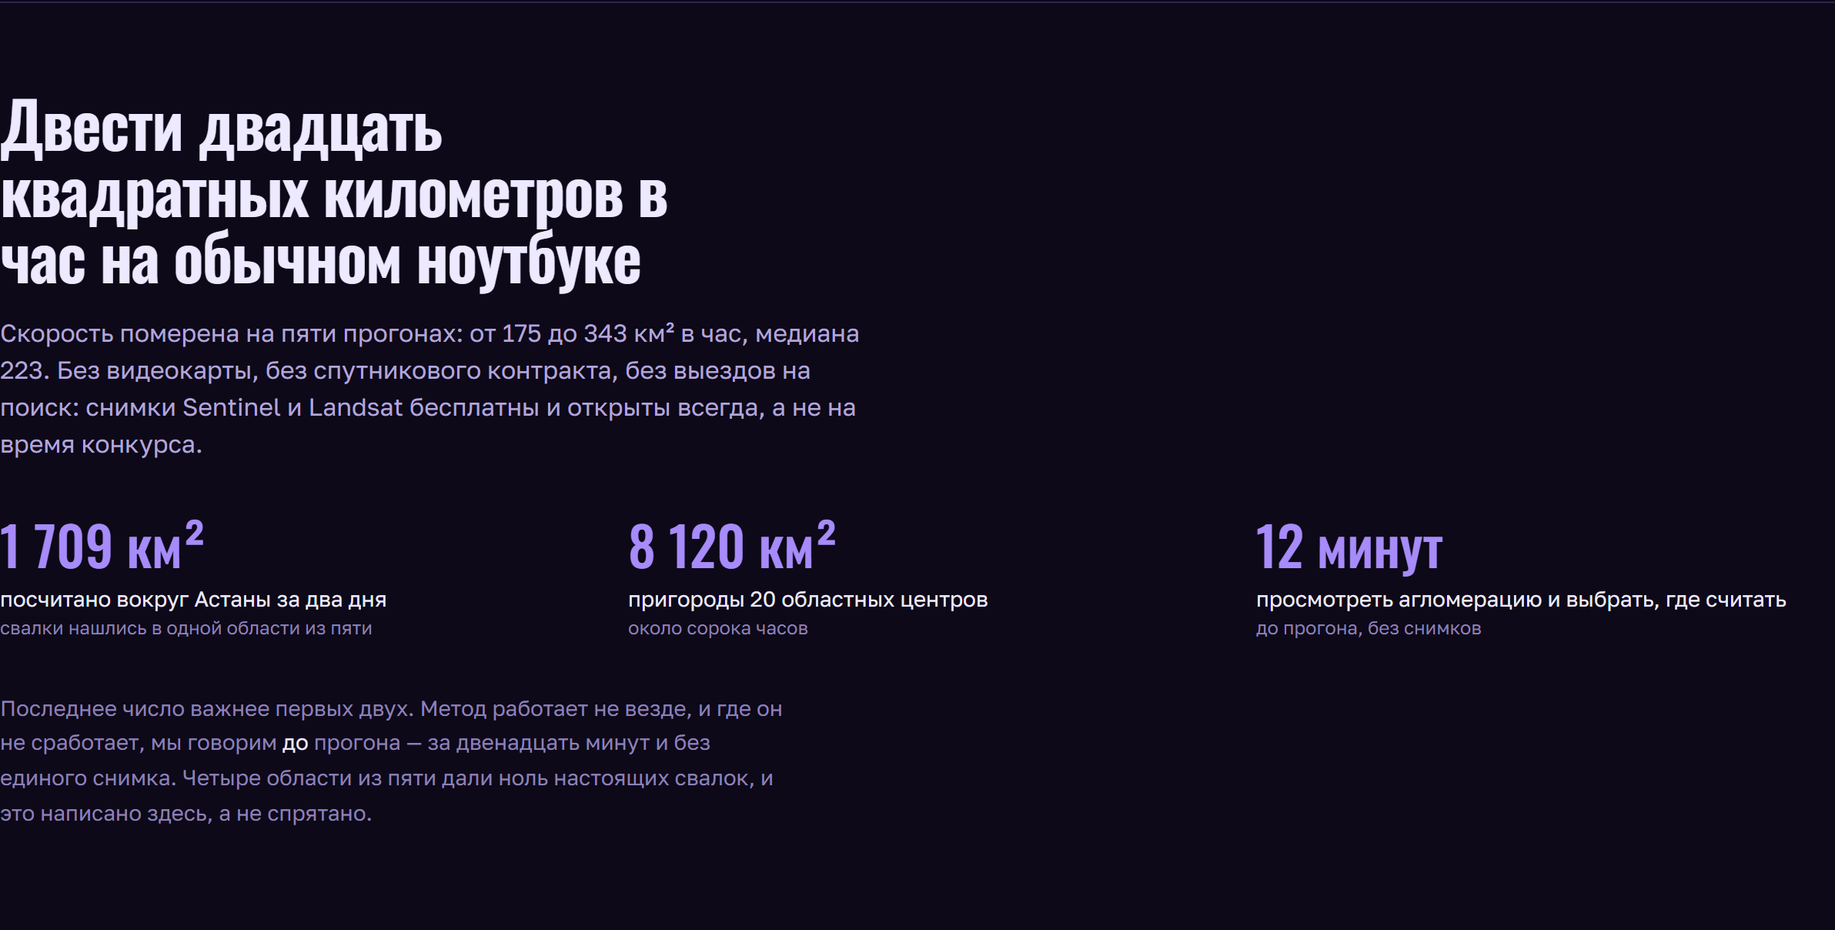
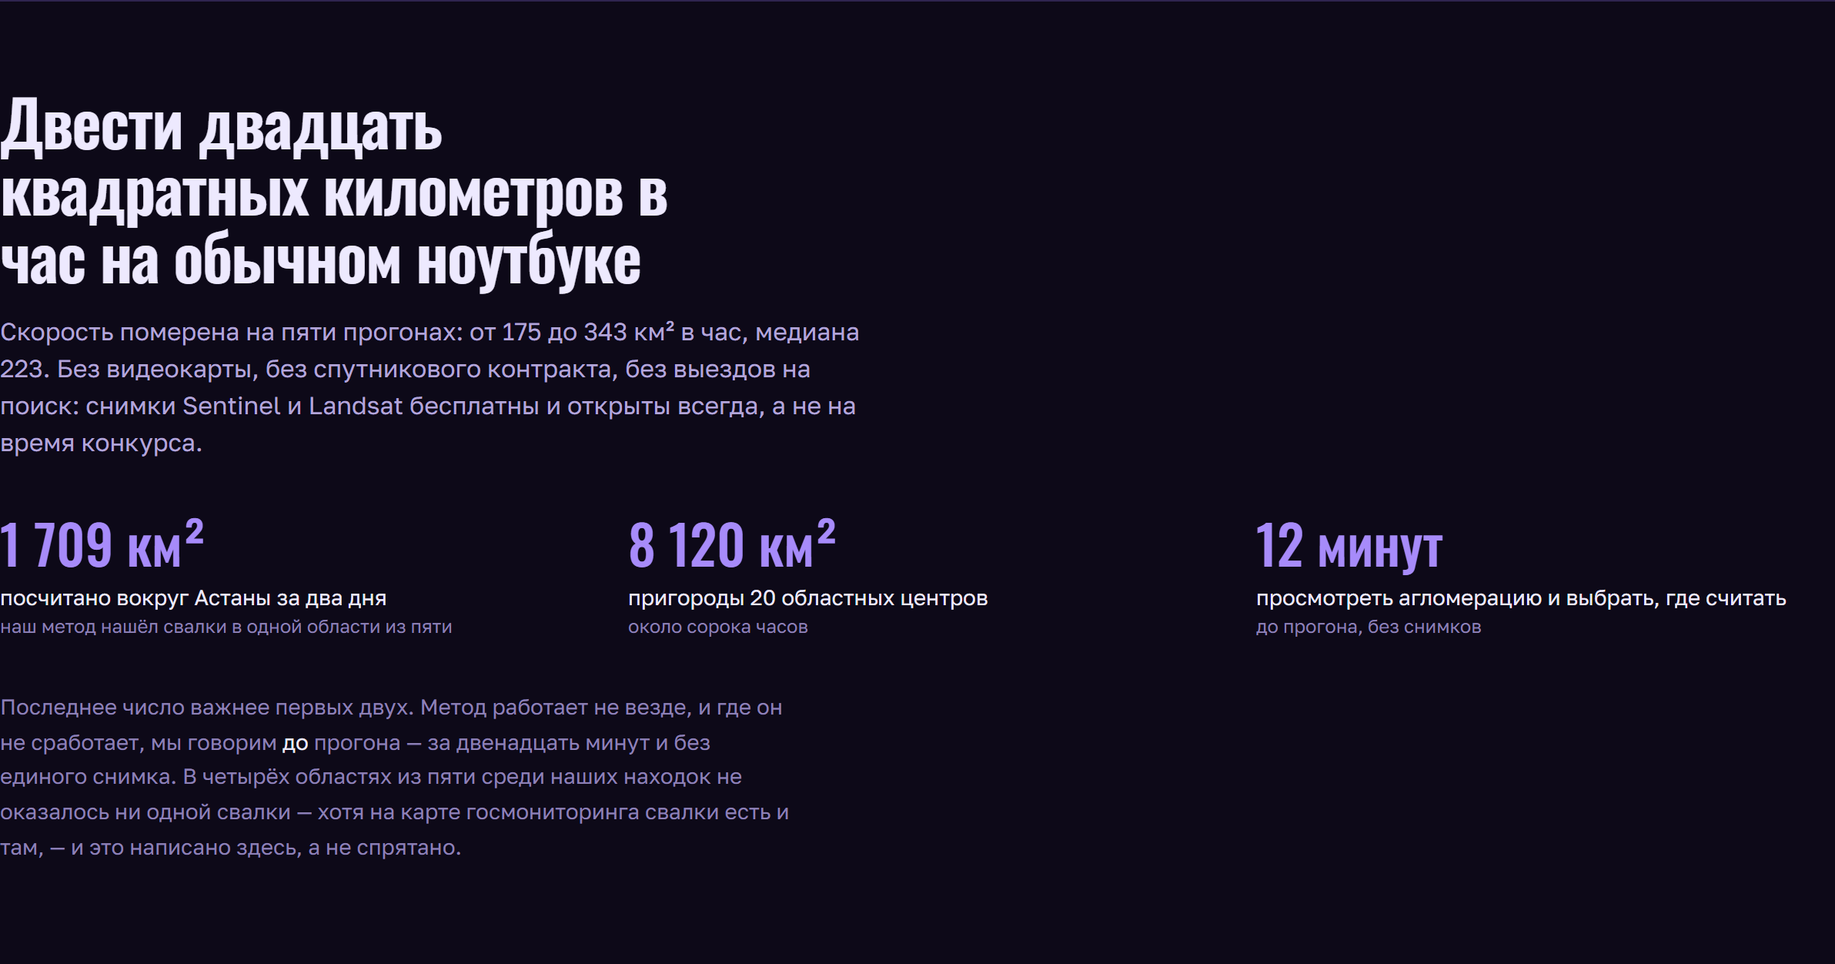
Убраны утверждения, которые опровергает открытая карта госмониторинга
- «В четырёх поясах свалок ноль» → «среди находок метода ни одной
  свалки»: на карте госмониторинга в этих поясах 131 свалка. Сайт, питч,
  PILOT, QA E3, BELTS (поправка), страница чисел (из данных сверки).
- «Ни одного объекта нет в реестре» → «из семи свалок на карте
  госмониторинга одна»: C00318 там есть. Питч, дека, речь.
- Карточка ограничений на сайте: «Находит не каждую свалку» с числами.
- Картинки деки пересняты с текущей сборки.

diff --git a/web-next/src/App.tsx b/web-next/src/App.tsx
@@ -136,8 +136,8 @@ const LIMITS: [string, string][] = [
     'Объекты меньше 30–50 м² Sentinel-2 не разрешает. Эту дыру закрывает житель с телефоном, а не алгоритм.',
   ],
   [
-    'В сельской местности метод не работает',
-    'В промзоне необратимое исчезновение растительности — событие редкое и потому значимое; в поле — рядовое: залежь, смена оборота, заброшенный огород. Проверено на четырёх сельских областях: настоящих свалок ноль.',
+    'Находит не каждую свалку',
+    'Метод видит место, где растительность исчезла навсегда. На открытой карте госмониторинга в наших пяти поясах 183 свалки — поиск по архиву находит из них 18, а в четырёх поясах среди его находок не оказалось ни одной свалки, хотя свалки там есть. В поле он к тому же даёт ложные находки: залежь и смена оборота выглядят так же. Второй способ — сканирование снимка высокого разрешения — в работе.',
   ],
   [
     'Перенос классификатора измерен, но выборка мала',
@@ -820,7 +820,7 @@ export default function App() {
                 пересчитывается тем же способом, что в scripts/finish_all.py. */}
             {[
               ['1 709 км²', 'посчитано вокруг Астаны за два дня',
-               'свалки нашлись в одной области из пяти'],
+               'наш метод нашёл свалки в одной области из пяти'],
               ['8 120 км²', 'пригороды 20 областных центров', 'около сорока часов'],
               ['12 минут', 'просмотреть агломерацию и выбрать, где считать', 'до прогона, без снимков'],
             ].map(([big, what, cost]) => (
@@ -837,8 +837,10 @@ export default function App() {
           <p className="mt-8 max-w-[60ch] text-sm leading-relaxed text-muted-2">
             Последнее число важнее первых двух. Метод работает не везде, и
             где он не сработает, мы говорим <strong className="font-normal text-line">до</strong> прогона —
-            за двенадцать минут и без единого снимка. Четыре области из пяти
-            дали ноль настоящих свалок, и это написано здесь, а не спрятано.
+            за двенадцать минут и без единого снимка. В четырёх областях из
+            пяти среди наших находок не оказалось ни одной свалки — хотя на
+            карте госмониторинга свалки есть и там, — и это написано здесь, а
+            не спрятано.
           </p>
         </section>
 

diff --git a/web-next/src/components/CitySwitch.tsx b/web-next/src/components/CitySwitch.tsx
@@ -65,7 +65,7 @@ export function CitySwitch({ cities, current, onSelect, className = '' }: Props)
           state === 'found'
             ? `${city.name}: найдено ${city.count}`
             : state === 'empty'
-              ? `${city.name}: проверено ${city.reviewed} находок, настоящих свалок нет`
+              ? `${city.name}: проверено ${city.reviewed} находок, свалок среди них нет`
               : `${city.name}: прогон ещё не проходил`;
         return (
           <button

diff --git a/scripts/key_numbers.py b/scripts/key_numbers.py
@@ -96,6 +96,11 @@ def main() -> int:
     # разметки оно разошлось с данными.
     screen_path = DATA / "screen.json"
     screen = json.loads(screen_path.read_text(encoding="utf-8")) if screen_path.exists() else {}
+    # Сверка с госмониторингом — из scripts/gov_waste.py (data/eval/gov_waste.json).
+    gov_path = Path("data/eval/gov_waste.json")
+    gov = json.loads(gov_path.read_text(encoding="utf-8")) if gov_path.exists() else {}
+    gov_total, gov_found = gov.get("total", 0), gov.get("found", 0)
+    gov_elsewhere = sum(1 for r in gov.get("rows", []) if r.get("area") != "outputs_real")
     # Точность модели по снимку — из scripts/attach_chipmodel.py.
     image_path = DATA / "image_model.json"
     image = json.loads(image_path.read_text(encoding="utf-8")) if image_path.exists() else {}
@@ -339,8 +344,11 @@ def main() -> int:
             "  «фотофиксация». Разница небольшая, но проверяющий, который",
             "  заметит её сам, отнесётся ко всему остальному иначе.",
         ] if ground and not photos else []),
-        "- **Четыре области из пяти дали ноль настоящих свалок.** Это не",
-        "  провал, а измеренная граница применимости — [BELTS.md](BELTS.md).",
+        "- **В четырёх областях из пяти среди находок метода нет ни одной свалки.**",
+        f"  Свалки там есть: на открытой карте госмониторинга их {gov_elsewhere}.",
+        f"  Метод находит {gov_found} из {gov_total} свалок госмониторинга —",
+        "  видит исчезновение растительности, а не каждую свалку. Не говорить",
+        "  «там свалок нет» (AI_RESULTS.md, 1ф; [BELTS.md](BELTS.md)).",
         "- **Три попытки обучить свою модель, все три неудачные.** Числа в",
         "  [AI_RESULTS.md](AI_RESULTS.md), разделы 1в, 1г, 1з.",
         "- **Прямого тарифа вывоза по Астане нет.** Именно он двигает оценку",

diff --git a/scripts/make_speech_pdf.py b/scripts/make_speech_pdf.py
@@ -38,7 +38,7 @@ RULE = (0.867, 0.835, 0.784)
 
 SKELETON = [
     "За свалку платят трижды, и ни один счёт никто не считает.",
-    "Свалок нет в реестре, потому что их никто не видел.",
+    "Шести из семи наших свалок нет даже на карте госмониторинга.",
     "Вот что известно публично — а вот что есть на самом деле.",
     "Различает их не картинка, а физика. Пять признаков.",
     "Дальше деньги: не одна цифра, а диапазон.",
@@ -63,7 +63,8 @@ BLOCKS = [
         [
             "Стихийная свалка — это счёт, который приходит трижды: вывозом, "
             "потерянным вторсырьём и метаном в воздухе.",
-            "Вокруг Астаны такие объекты есть, и их нет ни в одном реестре. "
+            "Вокруг Астаны такие объекты есть: из семи наших свалок на открытой "
+            "карте госмониторинга только одна. "
             "Их не считают, потому что не видят: обойти степь пешком "
             "невозможно, а находят по жалобе — когда убирать уже дорого.",
         ],

diff --git a/scripts/build_deck.py b/scripts/build_deck.py
@@ -347,7 +347,7 @@ def slides(n: dict) -> str:
           <ul>
             <li><b>Первый счёт — вывоз.</b> {ru(n['mass_sum'])} тонн на {n['dumps']}
               опознанных свалках одного квадрата 20 × 20 км — это <b>{ru(n['removal'], 1)} млн ₸</b> бюджету, и в план
-              уборки они не заложены: объектов нет в реестрах.</li>
+              уборки они не заложены: шести из семи нет даже на открытой карте госмониторинга.</li>
             <li><b>Второй счёт — потерянный ресурс.</b> Внутри тех же тонн лежит
               пластика, бумаги, металла и стекла на <b>{ru(n['recyclable'], 1)} млн ₸</b>
               по прайсу приёмки. Вывоз на полигон списывает их в ноль.</li>

diff --git a/docs/PITCH.md b/docs/PITCH.md
@@ -54,8 +54,8 @@
 > подозрительных объектов. Семь из них по снимку высокого разрешения —
 > несомненные свалки: две с половиной тысячи тонн, девятнадцать миллионов
 > тенге потерь. Ещё восемь по снимку не разобрать — туда нужен выезд. И
-> ни одного из этих объектов нет в официальном реестре. Их не считают,
-> потому что их не видят.
+> из семи свалок на открытой карте госмониторинга есть только одна. Шесть
+> не считают, потому что их не видят.
 
 **На экране:** титульный слайд. Три числа: 2 500 т · 19,0 млн ₸ · 51%.
 
@@ -260,8 +260,11 @@ python scripts/check_live.py
 > оборота, заброшенный огород.
 >
 > Мы посчитали пять поясов вокруг Астаны — тысяча семьсот квадратных
-> километров. Настоящие свалки нашлись в одном. В четырёх — ноль, и все
-> находки просмотрены глазами.
+> километров — и сверились с картой госмониторинга. Из ста восьмидесяти
+> трёх свалок на ней наш поиск находит восемнадцать. Он видит место, где
+> исчезла растительность, и пропускает свалку на голом грунте. Мы это
+> измерили и не прячем: второй способ поиска, по снимку высокого
+> разрешения, в опыте находит в три-четыре раза больше.
 >
 > Проверять область научились до прогона: один запрос к открытой карте,
 > ни одного снимка, секунды.

diff --git a/docs/NUMBERS.md b/docs/NUMBERS.md
@@ -92,8 +92,11 @@
 - **Ни одного объекта, подтверждённого выездом.** Все проверки —
   по снимкам 0,4–0,8 м. Куда ехать, посчитано в [FIELD.md](FIELD.md);
   выезд засчитывается только с фотографией, где есть координаты.
-- **Четыре области из пяти дали ноль настоящих свалок.** Это не
-  провал, а измеренная граница применимости — [BELTS.md](BELTS.md).
+- **В четырёх областях из пяти среди находок метода нет ни одной свалки.**
+  Свалки там есть: на открытой карте госмониторинга их 131.
+  Метод находит 18 из 183 свалок госмониторинга —
+  видит исчезновение растительности, а не каждую свалку. Не говорить
+  «там свалок нет» (AI_RESULTS.md, 1ф; [BELTS.md](BELTS.md)).
 - **Три попытки обучить свою модель, все три неудачные.** Числа в
   [AI_RESULTS.md](AI_RESULTS.md), разделы 1в, 1г, 1з.
 - **Прямого тарифа вывоза по Астане нет.** Именно он двигает оценку

diff --git a/docs/BELTS.md b/docs/BELTS.md
@@ -3,6 +3,15 @@
 Разбор написан по просмотру всех объектов восточного пояса глазами в ночь
 на 23 августа. Результат отрицательный и меняет стратегию поиска.
 
+> **Поправка 27 сентября.** «Ноль настоящих» — это про находки метода, а не
+> про пояса. Сверка с открытой картой госмониторинга отходов (KazEOSat-1,
+> апрель 2026) показала: свалки в этих поясах есть — 131 на четыре пояса,
+> 73 из них в западной промзоне. Наш поиск находит 18 из 183 свалок
+> госмониторинга: он видит место, где исчезла растительность, и
+> пропускает свалку на уже голом грунте (AI_RESULTS.md, 1ф и 1х). Вывод
+> ниже о полезности сёл как ориентира остаётся в силе; вывод «здесь свалок
+> нет» — нет.
+
 ---
 
 ## Что проверяли

diff --git a/docs/PILOT.md b/docs/PILOT.md
@@ -68,8 +68,10 @@
 **Результат:** ответ «здесь метод сработает» или «здесь не сработает», с
 числом. Это единственная неделя, после которой пилот может честно
 закончиться, и мы говорим об этом заранее. Из пяти посчитанных поясов
-вокруг Астаны свалки нашлись в одном; в сельской местности метод даёт
-ложные находки, и предупредить об этом дешевле, чем объясняться потом.
+вокруг Астаны наш метод нашёл свалки в одном, хотя на карте госмониторинга
+они есть во всех пяти: он видит не каждую свалку (AI_RESULTS.md, 1ф). В
+сельской местности он к тому же даёт ложные находки, и предупредить об
+этом дешевле, чем объясняться потом.
 
 ### Недели 3–4. Первый полный прогон
 
